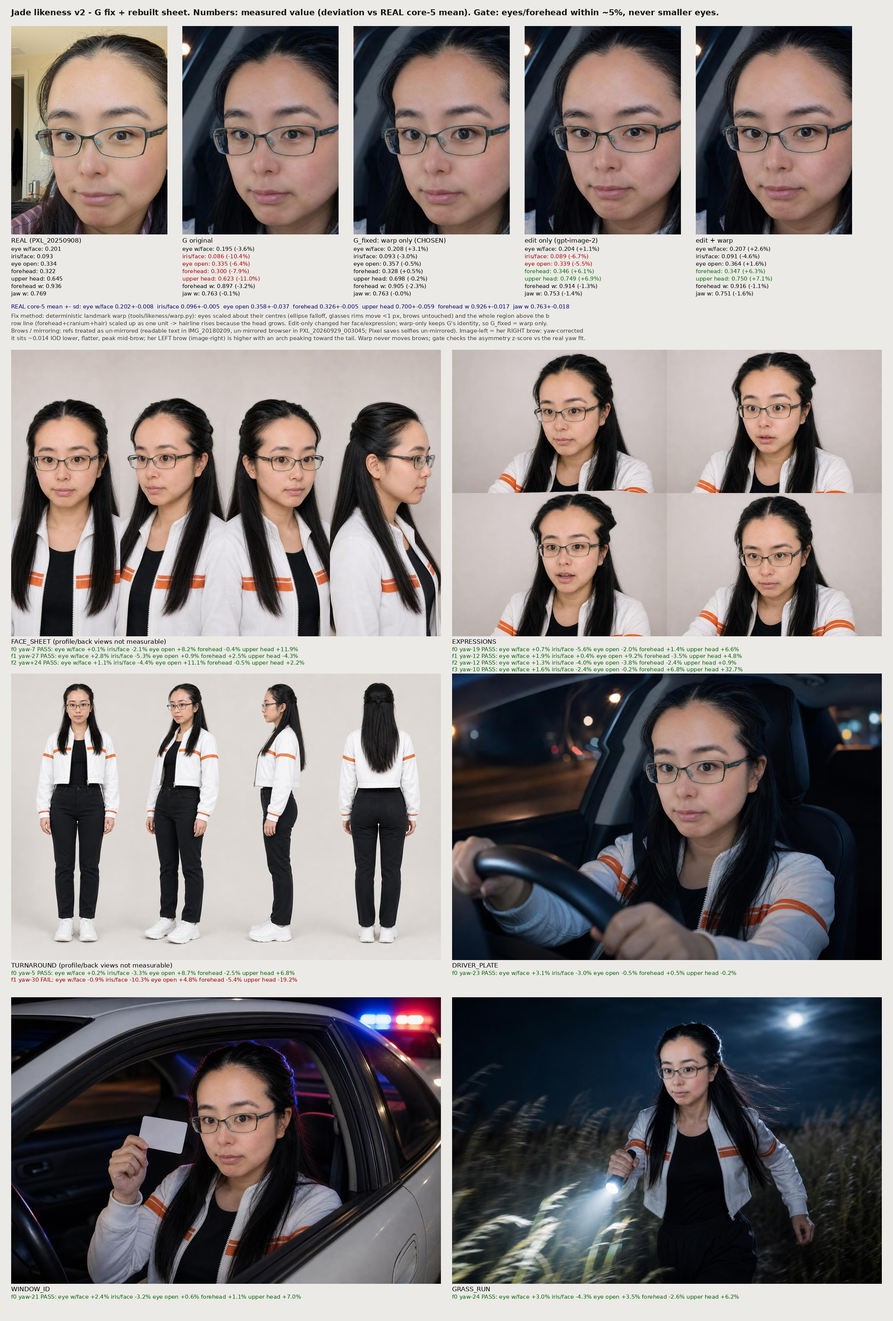
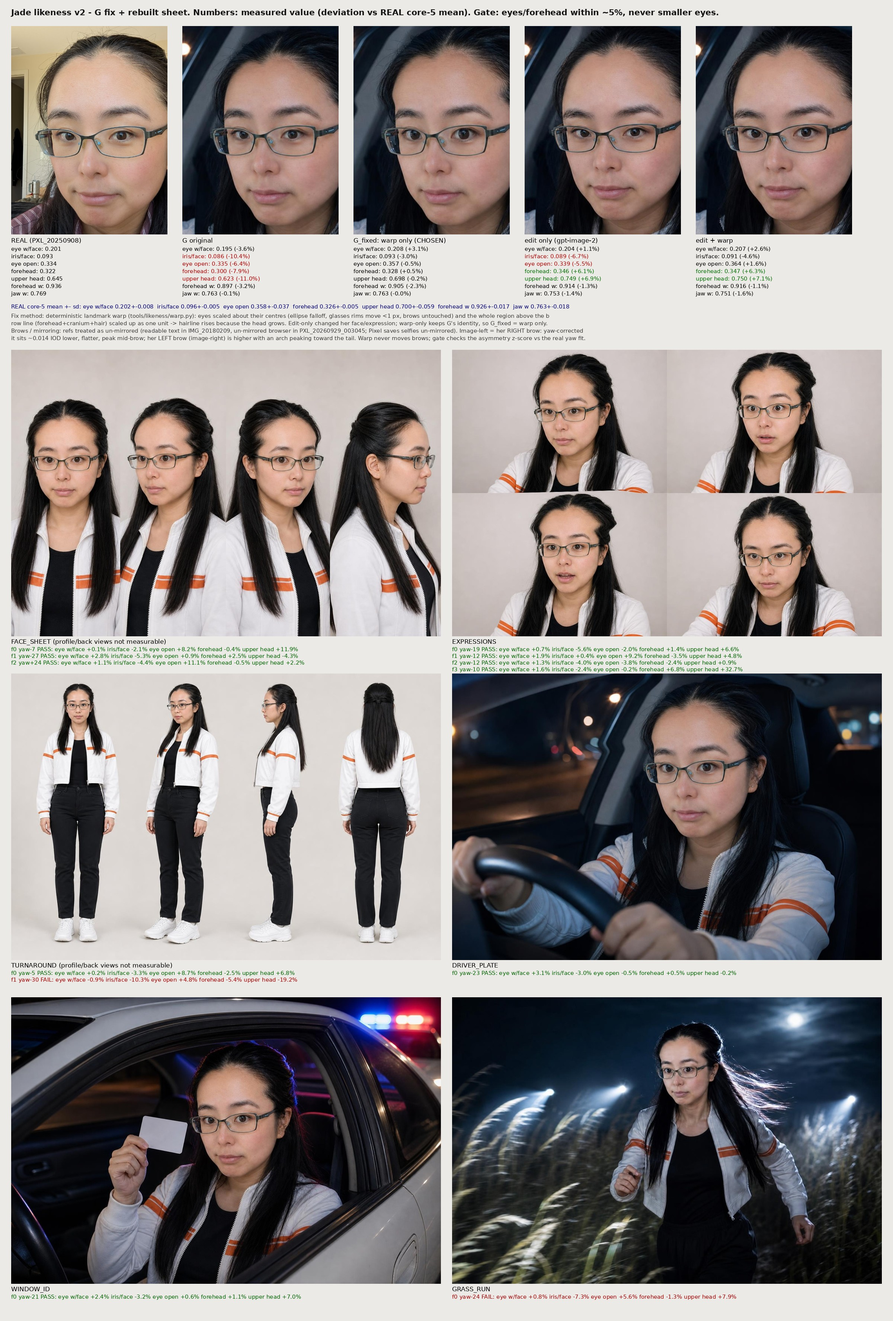
WIP: agent outputs
Claude-Session: https://claude.ai/code/session_01QH8JxH6iaaco1ynhTZZBdC

Changed region(s): [[0.5, 0.8056, 0.7188, 0.9915], [0.8125, 0.8056, 0.9688, 0.8986], [0.7812, 0.7746, 0.8125, 0.8056]]

diff --git a/tools/likeness/lipsync.py b/tools/likeness/lipsync.py
@@ -1,0 +1,77 @@
+#!/usr/bin/env python3
+"""Lip-sync check: mouth-open signal (MediaPipe landmarks) vs vocal-stem envelope.
+
+  python3 tools/likeness/lipsync.py CLIP.mp4 VOCALS.wav --audio-start 13.15 [--win 0.3 7.97] [--maxlag 0.5] [--json out.json]
+
+  --audio-start  song time (s) that corresponds to video t=0 (the start of the reference_audios slice)
+  --win A B      analysis window in VIDEO time (default: whole clip), e.g. the sung part
+Mouth signal: inner-lip gap (13-14) / outer-canthal distance, per frame (frames with no face are interpolated).
+Audio: RMS of the vocal stem in 1/fps hops, log-compressed, light smoothing. Both are z-scored inside the window.
+Reports Pearson r at lag 0 and the best lag in [-maxlag, +maxlag] (positive lag = mouth LATE vs audio),
+plus the fraction of frames with a detected face.
+"""
+import sys, os, json, argparse, subprocess
+import numpy as np, cv2
+sys.path.insert(0, os.path.dirname(os.path.abspath(__file__)))
+import measure as MS
+
+
+def mouth_signal(path):
+    cap = cv2.VideoCapture(path); fps = cap.get(cv2.CAP_PROP_FPS) or 24
+    sig = []
+    while True:
+        ok, fr = cap.read()
+        if not ok:
+            break
+        lm = MS.landmarks(cv2.cvtColor(fr, cv2.COLOR_BGR2RGB))
+        if lm is None:
+            sig.append(np.nan); continue
+        p = lm[0]
+        sig.append(np.linalg.norm(p[13, :2] - p[14, :2]) / np.linalg.norm(p[MS.R_OUT, :2] - p[MS.L_OUT, :2]))
+    s = np.array(sig, float); det = np.isfinite(s).mean()
+    if np.isfinite(s).sum() >= 2:
+        idx = np.arange(len(s)); s = np.interp(idx, idx[np.isfinite(s)], s[np.isfinite(s)])
+    return s, fps, det
+
+
+def audio_env(wav, start, n, fps, sr=16000):
+    raw = subprocess.run(["ffmpeg", "-v", "error", "-ss", str(start), "-t", str(n / fps + 0.5), "-i", wav, "-ac", "1", "-ar", str(sr), "-f", "s16le", "-"],
+                         capture_output=True).stdout
+    a = np.frombuffer(raw, np.int16).astype(np.float32) / 32768
+    hop = sr / fps
+    env = np.array([np.sqrt(np.mean(a[int(i * hop):int((i + 1) * hop)] ** 2) + 1e-9) for i in range(n)])
+    env = np.log(env + 1e-4)
+    return np.convolve(env, np.ones(3) / 3, mode="same")
+
+
+def z(x):
+    return (x - x.mean()) / (x.std() + 1e-9)
+
+
+def main():
+    ap = argparse.ArgumentParser()
+    ap.add_argument("clip"); ap.add_argument("wav"); ap.add_argument("--audio-start", type=float, required=True)
+    ap.add_argument("--win", type=float, nargs=2); ap.add_argument("--maxlag", type=float, default=0.5); ap.add_argument("--json")
+    a = ap.parse_args()
+    m, fps, det = mouth_signal(a.clip)
+    e = audio_env(a.wav, a.audio_start, len(m), fps)
+    i0, i1 = (0, len(m)) if not a.win else (int(a.win[0] * fps), min(len(m), int(a.win[1] * fps)))
+    L = int(a.maxlag * fps); best = (-9, 0)
+    rs = {}
+    for lag in range(-L, L + 1):
+        j0, j1 = i0 + lag, i1 + lag                  # mouth index = audio index + lag
+        if j0 < 0 or j1 > len(m):
+            continue
+        r = float(np.corrcoef(z(m[j0:j1]), z(e[i0:i1]))[0, 1]); rs[lag] = r
+        if r > best[0]:
+            best = (r, lag)
+    out = dict(clip=a.clip, fps=fps, frames=len(m), face_detect_frac=round(float(det), 3), window_s=[i0 / fps, i1 / fps],
+               r_lag0=round(rs.get(0, float("nan")), 3), best_r=round(best[0], 3), best_lag_s=round(best[1] / fps, 3),
+               mouth_open_range=[round(float(np.percentile(m, 5)), 3), round(float(np.percentile(m, 95)), 3)])
+    print(json.dumps(out))
+    if a.json:
+        json.dump(dict(out, mouth=m.round(4).tolist(), env=e.round(4).tolist()), open(a.json, "w"))
+
+
+if __name__ == "__main__":
+    main()

diff --git a/assets/character/v2/build_board.py b/assets/character/v2/build_board.py
@@ -64,6 +64,6 @@ board = board.crop((0, 0, W, pos[-1][1] + 870))
 board.save(ROOT + "/assets/character/REVIEW_BOARD_v2.jpg", quality=90)
 db["outputs"] = outputs
 db["selection"] = {"DRIVER_PLATE": "cands/G_warp.jpg (G + warp)", "FACE_SHEET": "cands/FS1_w.jpg", "EXPRESSIONS": "cands/EX1_w.jpg",
-                   "TURNAROUND": "cands/TU1_w.jpg", "WINDOW_ID": "cands/WI1_w.jpg", "GRASS_RUN": "cands/GR2_w.jpg"}
+                   "TURNAROUND": "cands/TU1_w.jpg", "WINDOW_ID": "cands/WI1_w.jpg", "GRASS_RUN": "../firstframes/cands/J7m.jpg + warp (flashlight removed per director review)"}
 json.dump(db, open(D + "/measure.json", "w"), indent=1, default=float)
 print("ok")

diff --git a/docs/CHARACTER.md b/docs/CHARACTER.md
@@ -23,3 +23,6 @@ Best references:
 ## Car & continuity
 Her car: WHITE 2001 ACURA TL (2nd-gen 4-door sedan; simple dash, no touchscreen). US left-hand drive — she sits on
 the LEFT; traffic on the right. Pursuers: dark sedan. Reject any mirrored / right-hand-drive interiors.
+
+
+v2 (2026-10-02): measured likeness gate + approved-candidate sheet in assets/character/v2/ (measure.json = real-photo ratios); tools in tools/likeness/ (measure.py gate, warp.py correction, pasteback.py real-face paste-back, lipsync.py). Photo-based first frames: assets/character/firstframes/.
